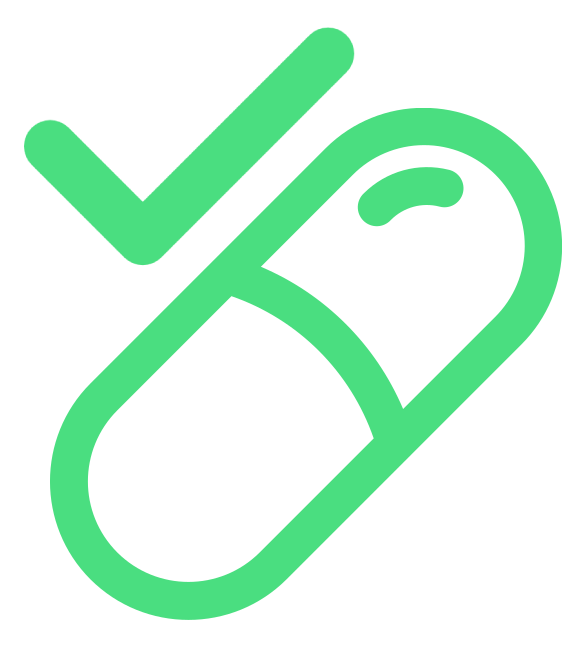
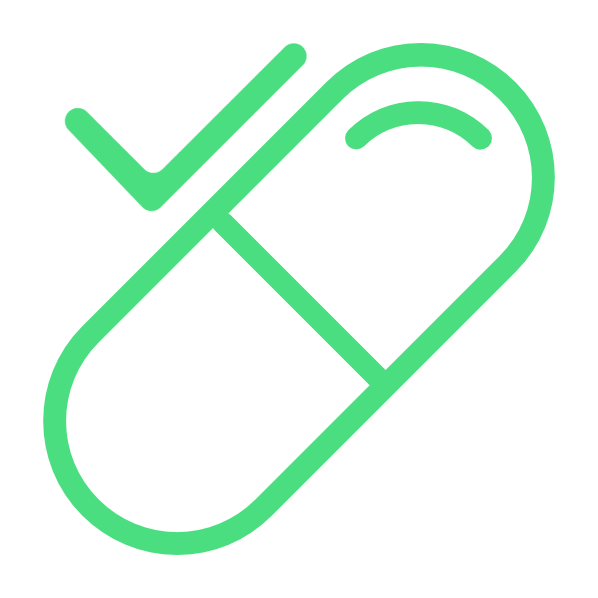
feat(dashboard): review phase 3 and apply fixes

diff --git a/frontend/src/features/dashboard/components/dashboard-page.tsx b/frontend/src/features/dashboard/components/dashboard-page.tsx
@@ -10,7 +10,7 @@ export function DashboardPage() {
 
   return (
     <AppLayout>
-      <div className="h-full overflow-y-auto">
+      <div className="flex h-full flex-col overflow-y-auto">
         <div className="mb-6 text-center">
           <h2 className="text-xl font-semibold text-white">Panel główny</h2>
         </div>

diff --git a/context/changes/dashboard/reviews/impl-review-phase-3.md b/context/changes/dashboard/reviews/impl-review-phase-3.md
@@ -1,0 +1,53 @@
+<!-- IMPL-REVIEW-REPORT -->
+# Implementation Review: Dashboard
+
+- **Plan**: context/changes/dashboard/plan.md
+- **Scope**: Phase 3 of 4 (Frontend dashboard UI)
+- **Date**: 2026-07-10
+- **Verdict**: APPROVED
+- **Findings**: 0 critical  2 warnings  1 observation
+
+## Verdicts
+
+| Dimension | Verdict |
+|-----------|---------|
+| Plan Adherence | WARNING |
+| Scope Discipline | WARNING |
+| Safety & Quality | PASS |
+| Architecture | PASS |
+| Pattern Consistency | PASS |
+| Success Criteria | PASS |
+
+Automated success criteria (all pass): lint clean (`npm run lint`), typecheck clean (`npx tsc -b`), prettier clean (`npx prettier --check src/features/dashboard`), component tests 4/4 (`npx vitest run src/features/dashboard/components`).
+
+## Findings
+
+### F1 — Card labels drifted from the plan's explicit copy
+
+- **Severity**: ⚠️ WARNING
+- **Impact**: 🏃 LOW — quick decision; fix is obvious and narrowly scoped
+- **Dimension**: Plan Adherence
+- **Location**: frontend/src/features/dashboard/components/summary-cards.config.ts:14-38
+- **Detail**: Plan Phase 3 §2 and the Desired End State pin exact labels: "Aktualne", "Bliski termin", "Przeterminowane", "Brak zapasu". Implementation ships expanded copy: "Aktualne leki", "Leki bliskie terminu ważności", "Leki przeterminowane", "Leki bez zapasu". Only "Łącznie leków" matches. Tests read from the config so they pass regardless — the drift is invisible to CI. The long "Leki bliskie terminu ważności" also risks awkward wrapping in a narrow card (`text-sm max-w-[70%]` on mobile).
+- **Fix**: Decide the canonical copy — either revert the four labels to the plan's concise forms, or keep the richer copy and note it as a plan addendum so the plan stays the source of truth.
+- **Decision**: RESOLVED — kept richer copy; plan Phase 3 §2 amended with a 2026-07-10 addendum making the expanded labels canonical.
+
+### F2 — Unplanned icon PNG assets added to the cards
+
+- **Severity**: ⚠️ WARNING
+- **Impact**: 🏃 LOW — quick decision; fix is obvious and narrowly scoped
+- **Dimension**: Scope Discipline
+- **Location**: frontend/src/features/dashboard/components/summary-card.tsx:2-6,40-53
+- **Detail**: Plan's summary-card contract is "a Polish label + count" tinted per status token — no icons. Implementation adds five new binary assets (total/active/expiring/expired/out-of-stock.png) and renders them per card. Defensible under the plan's "styled after dashboard-v1.jpg" clause, and benign, but it is scope not described in the plan and commits 5 binaries to the repo. Both `<img>`s use `alt=""` (decorative) — accessibility is fine.
+- **Fix**: Keep if the mockup shows these icons; add a one-line note to the plan's Phase 3 that cards carry decorative status icons.
+- **Decision**: RESOLVED — kept icons; plan Phase 3 §1 amended with a 2026-07-10 addendum noting decorative per-status card icons.
+
+### F3 — Empty-state vertical centering is inert
+
+- **Severity**: 🔭 OBSERVATION
+- **Impact**: 🏃 LOW — quick decision; fix is obvious and narrowly scoped
+- **Dimension**: Safety & Quality
+- **Location**: frontend/src/features/dashboard/components/dashboard-empty.tsx:5
+- **Detail**: DashboardEmpty's root uses `flex flex-1 ... justify-center`, but its parent in dashboard-page.tsx (`<div className="h-full overflow-y-auto">`, line 13) is a block, not a flex container. So `flex-1` and the vertical `justify-center` are inert — the CTA renders directly under the title, top-aligned, not centered as the plan's "friendly add-CTA" intends. Cosmetic only; content is correct.
+- **Fix**: Make the page content wrapper `flex flex-col` (or drop `flex-1` from the empty state and center it another way).
+- **Decision**: FIXED — dashboard-page.tsx:13 wrapper changed to `flex h-full flex-col overflow-y-auto`; empty-state flex-1/justify-center now live.

diff --git a/context/changes/dashboard/plan.md b/context/changes/dashboard/plan.md
@@ -299,6 +299,10 @@ expired accents consistent with the cabinet status badges).
 **Contract**: props `{ label: string; count: number; to: string; accent: <status token> }`.
 The whole card is the link. Full-width when stacked.
 
+**Addendum (2026-07-10, impl review Phase 3):** each card also renders a decorative
+status icon (per-status PNG under the dashboard assets, one per card, `alt=""`),
+matching `dashboard-v1.jpg`. Accepted as in-scope styling.
+
 #### 2. Card configuration (count → label → link)
 
 **File**: `frontend/src/features/dashboard/components/summary-cards.config.ts`
@@ -313,6 +317,13 @@ directly testable.
 `{ key: "expiring", label: "Bliski termin", to: "/cabinet?status=expiring" }`,
 `{ key: "expired", label: "Przeterminowane", to: "/cabinet?status=expired" }`,
 `{ key: "out_of_stock", label: "Brak zapasu", to: "/cabinet?below_minimum=true" }`.
+
+**Addendum (2026-07-10, impl review Phase 3):** shipped labels expand the concise
+forms above for clarity — `"Aktualne leki"`, `"Leki bliskie terminu ważności"`,
+`"Leki przeterminowane"`, `"Leki bez zapasu"` (`"Łącznie leków"` unchanged). This
+richer copy is now the canonical card copy; the concise forms above are the
+original shorthand. Note: labels are config-driven and tests read from the config,
+so copy changes are invisible to CI — verify label copy by eye.
 
 #### 3. Loading skeleton + empty state
 
@@ -487,24 +498,24 @@ No schema changes, no migrations. Purely additive endpoint + frontend feature.
 
 #### Manual
 
-- [x] 2.4 Summary query fires on load and refetches after cabinet add/delete
+- [x] 2.4 Summary query fires on load and refetches after cabinet add/delete — 7088759
 
 ### Phase 3: Frontend dashboard UI
 
 #### Automated
 
-- [x] 3.1 Lint passes
-- [x] 3.2 Typecheck passes
-- [x] 3.3 Prettier passes (src/features/dashboard)
-- [x] 3.4 Component tests: loading→skeleton, error→retry, total===0→add-CTA, populated→five cards with counts and correct pre-filtered hrefs
+- [x] 3.1 Lint passes — 7088759
+- [x] 3.2 Typecheck passes — 7088759
+- [x] 3.3 Prettier passes (src/features/dashboard) — 7088759
+- [x] 3.4 Component tests: loading→skeleton, error→retry, total===0→add-CTA, populated→five cards with counts and correct pre-filtered hrefs — 7088759
 
 #### Manual
 
-- [x] 3.5 Five cards show correct numbers matching the cabinet list
-- [x] 3.6 Clicking each card lands on correctly pre-filtered cabinet list with matching total
-- [x] 3.7 Empty cabinet shows add-CTA, not five zeros
-- [x] 3.8 Cards stack on mobile, row on desktop
-- [x] 3.9 Slow/failed backend shows skeleton then error+retry
+- [x] 3.5 Five cards show correct numbers matching the cabinet list — 7088759
+- [x] 3.6 Clicking each card lands on correctly pre-filtered cabinet list with matching total — 7088759
+- [x] 3.7 Empty cabinet shows add-CTA, not five zeros — 7088759
+- [x] 3.8 Cards stack on mobile, row on desktop — [phone redacted]
+- [x] 3.9 Slow/failed backend shows skeleton then error+retry — 7088759
 
 ### Phase 4: Navigation & landing wiring
 